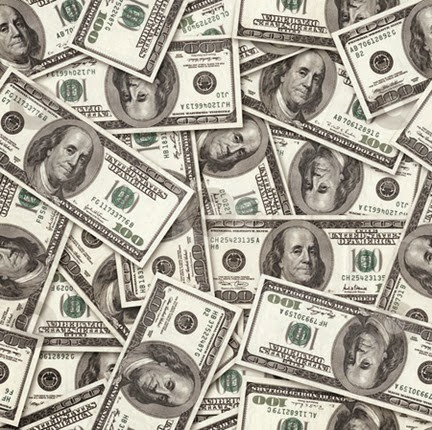
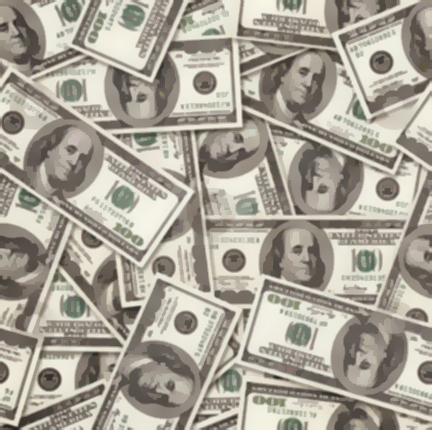
Done!

Changed region(s): [[0.0, 0.0, 1.0, 1.0], [0.6921, 0.1512, 0.7523, 0.2419], [0.7523, 0.9977, 0.7824, 1.0]]

diff --git a/pset7/public/css/styles.css b/pset7/public/css/styles.css
@@ -6,7 +6,7 @@
  *
  * Global CSS.
  */
-body {
+.background {
     background-image: url(../img/background.jpg);
     background-repeat: repeat;
     height: 100%;

diff --git a/pset7/public/sell.php b/pset7/public/sell.php
@@ -17,10 +17,10 @@
             $stock["symbol"] = strtoupper($stock["symbol"]);
             $positions = CS50::query("SELECT * FROM portfolios WHERE id = ? AND symbol = ?", $_SESSION["id"], $_POST["symbol"]);
             $shares = CS50::query("SELECT shares FROM portfolios WHERE id = ? AND symbol = ?", $_SESSION["id"], $_POST["symbol"]);
-            $sell = $positions[0]["shares"] * $stock["price"];
+            $sell = $_POST["shares"] * $stock["price"];
             $transaction = 'SELL';
             CS50::query("UPDATE users SET cash = cash + ? WHERE id = ?", $sell, $_SESSION["id"]); 
-            CS50::query("INSERT INTO history (id, transaction, symbol, shares, price) VALUES (?, ?, ?, ?, ?)", $_SESSION["id"], $transaction, $stock["symbol"], $shares[0]["shares"], $stock["price"]);
+            CS50::query("INSERT INTO history (id, transaction, symbol, shares, price) VALUES (?, ?, ?, ?, ?)", $_SESSION["id"], $transaction, $stock["symbol"], $_POST["shares"], $stock["price"]);
             CS50::query("DELETE FROM portfolios WHERE id = ? AND symbol = ?", $_SESSION["id"], $_POST["symbol"]);
         }
         redirect("/");

diff --git a/pset7/views/history_form.php b/pset7/views/history_form.php
@@ -5,6 +5,7 @@
                 <th>Symbol</th>
                 <th>Shares</th>
                 <th>Price</th>
+                <th>Total</th>
             </tr>
 <?php foreach ($history as $transactions): ?>
         <tr>
@@ -13,6 +14,7 @@
             <td><?= $transactions["symbol"] ?></td>
             <td><?= $transactions["shares"] ?></td>
             <td>$<?= number_format($transactions["price"], 2) ?></td>
+            <td>$<?= number_format($transactions["price"] * $transactions["shares"], 2) ?></td>
         </tr>
 <?php endforeach ?>
 </table>

diff --git a/pset7/views/sell_form.php b/pset7/views/sell_form.php
@@ -4,6 +4,9 @@
             <input autocomplete="off" autofocus class="form-control" name="symbol" placeholder="Stock Symbol" type="text"/>
         </div>
         <div class="form-group">
+            <input autocomplete="off" class="form-control" name="shares" placeholder="Shares" type="text"/>
+        </div>
+        <div class="form-group">
             <button class="btn btn-default" type="submit">
                 <span aria-hidden="true" class="glyphicon glyphicon-log-in"></span>
                 Sell

diff --git a/pset7/views/header.php b/pset7/views/header.php
@@ -25,7 +25,7 @@
 
     </head>
 
-    <body>
+    <body class="background">
 
         <div class="container">
 
